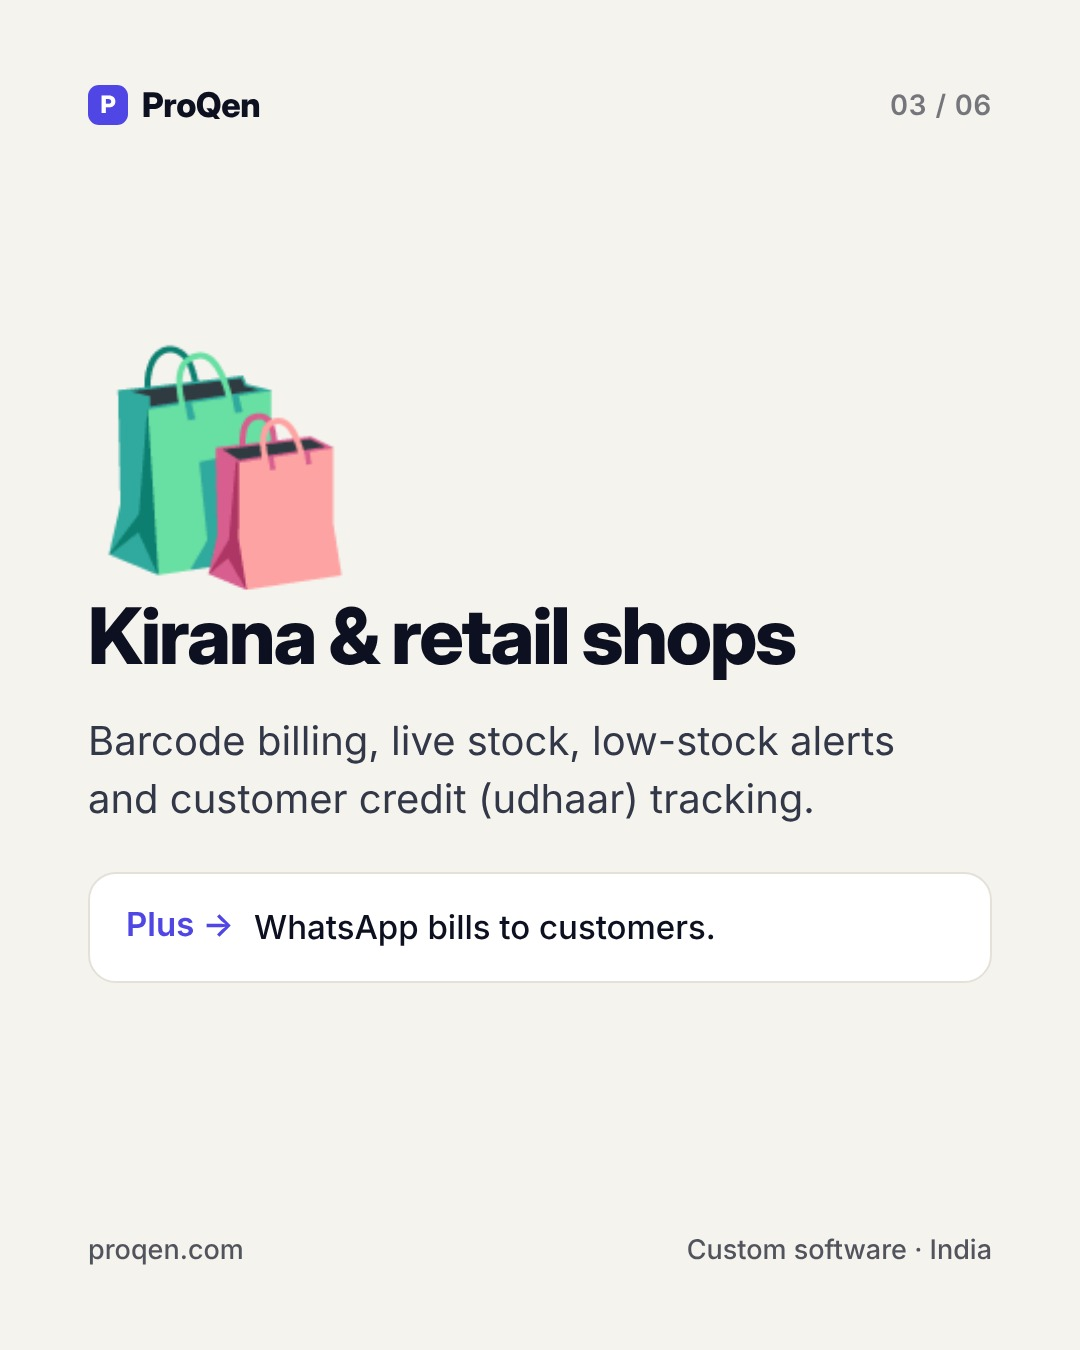
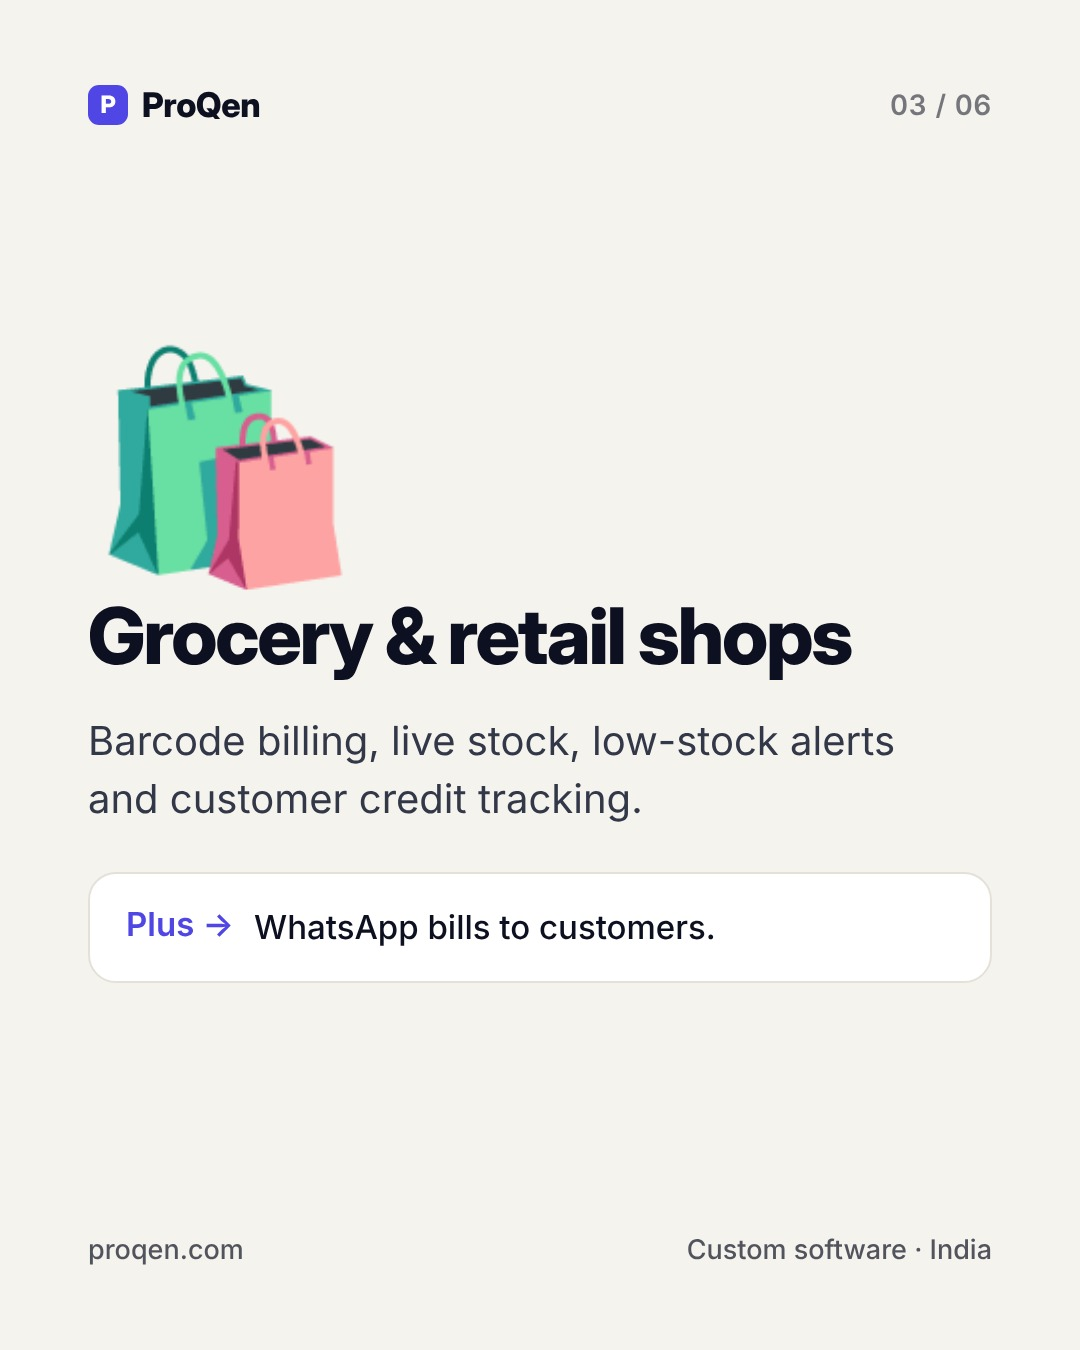
Rewrite unposted posts in English only; set English-only language rule
Rewrote Hinglish in p006, p008-p016 (unposted) and re-rendered changed slides.
No new posts needed: 15 posts still unposted.

Claude-Session: https://claude.ai/code/session_01R5HReVHmBsmUatBF7Rt4LT

Changed region(s): [[0.0917, 0.4356, 0.7944, 0.5289], [0.4583, 0.56, 0.7639, 0.6222]]

diff --git a/CLAUDE.md b/CLAUDE.md
@@ -19,7 +19,7 @@ Posts one item a day to ProQen's Instagram (~7:15 PM IST, with 8:03 and 8:49 PM 
 
 ## Content rules
 
-- Audience: owners of restaurants, cafés, shops/kirana, hotels/homestays, clinics, schools and small businesses in India.
+- Audience: owners of restaurants, cafés, shops/grocery stores, hotels/homestays, clinics, schools and small businesses in India.
 - ProQen services: websites & web apps, mobile apps, ERP/CRM & dashboards, e-commerce, POS & billing (offline, GST, KOT),
   hotel & hospitality (booking engine, room QR codes, front-desk apps), AI & WhatsApp automation, UI/UX design.
 - Facts you may use: Noida, India; WhatsApp +91 94531 26836; support@proqen.com; proqen.com; fixed quote before starting;
@@ -37,8 +37,8 @@ Posts one item a day to ProQen's Instagram (~7:15 PM IST, with 8:03 and 8:49 PM 
   the rest can be tips/educational, always ending with how ProQen helps.
 - Service priority: 1) websites & mobile/web apps, 2) POS & billing, 3) custom software (ERP/CRM/dashboards/internal tools),
   4) AI & WhatsApp automation. Hotel software, e-commerce and UI/UX appear less often.
-- Language: English + Hinglish. Hinglish hook in titles/first caption line ("Google pe search kiya… aapka business dikha?",
-  "Internet gaya? Billing chalu."), clear English for details. Indian context: GST, UPI, KOT, udhaar, kirana, WhatsApp, ₹.
+- ENGLISH ONLY, in slides and captions. No Hindi or Hinglish words.
+- Indian context (in English): GST, UPI, KOT, customer credit, grocery stores, WhatsApp, ₹.
 
 ## Layouts (see render.py)
 
